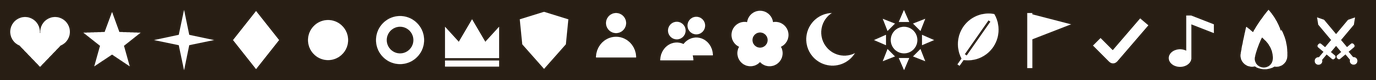
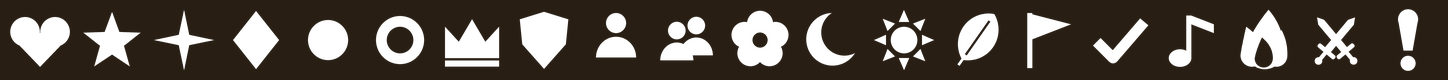
Quest enemies get a ! (ForeverNames 1.13.0)
New option "Show ! beside enemies for your quests" (NPCs > Which NPCs,
off by default): a yellow ! left of the health bar of hostile and neutral
NPCs tied to an active quest, via C_QuestLog.UnitIsRelatedToActiveQuest
(secret answers go to SetAlphaFromBoolean), with a fallback to unfinished
quest objective lines in tooltip data. Updates on plate arrival and
QUEST_LOG_UPDATE only; no lookups while the option is off. New exclaim
glyph. Smoke tests cover the feature.

Changed region(s): [[0.0, 0.125, 1.0, 0.875], [0.0, 0.775, 0.0312, 0.825]]

diff --git a/tools/make_glyphs.py b/tools/make_glyphs.py
@@ -168,10 +168,18 @@ def swords(d):
     return left
 
 
+def exclaim(d):
+    # A bold exclamation mark: a bar that narrows toward the bottom, then a dot.
+    d.polygon([(176, 90), (336, 90), (292, 340), (220, 340)], fill=W)
+    d.ellipse((176, 10, 336, 170), fill=W)
+    d.ellipse((196, 382, 316, 502), fill=W)
+
+
 GLYPHS = {
     'heart': heart, 'star': star, 'sparkle': sparkle, 'diamond': diamond, 'dot': dot, 'ring': ring,
     'crown': crown, 'shield': shield, 'person': person, 'party': party, 'flower': flower, 'moon': moon,
     'sun': sun, 'leaf': leaf, 'flag': flag, 'check': check, 'note': note, 'fire': fire, 'swords': swords,
+    'exclaim': exclaim,
 }
 
 

diff --git a/README.md b/README.md
@@ -4,6 +4,17 @@ Formerly **Friendly NPC Names**. Immersion and RP labels for friendly NPCs and
 players in the open world. Every feature added since 1.7.0 has its own toggle
 and ships off, so with all of them off the addon behaves exactly like 1.6.1.
 
+## 1.13.0 Quest enemies
+
+- New option **Show ! beside enemies for your quests** (NPCs > Which NPCs,
+  card "Quest enemies"; off by default). A yellow ! sits left of the health bar
+  of hostile and neutral NPCs that belong to an active quest: kill targets and
+  mobs that drop quest items. It goes away when the objective is done.
+- Uses the client's `C_QuestLog.UnitIsRelatedToActiveQuest`; without it, falls
+  back to unfinished quest objective lines in the unit's tooltip data. Blizzard
+  keeps these plates; the ! is a separate layer (`QuestMarks.lua`).
+- Work only on plate arrival and quest-log updates; none while the option is off.
+
 ## 1.12.0 One settings window
 
 - The settings window is the one organized by who a setting is about:
